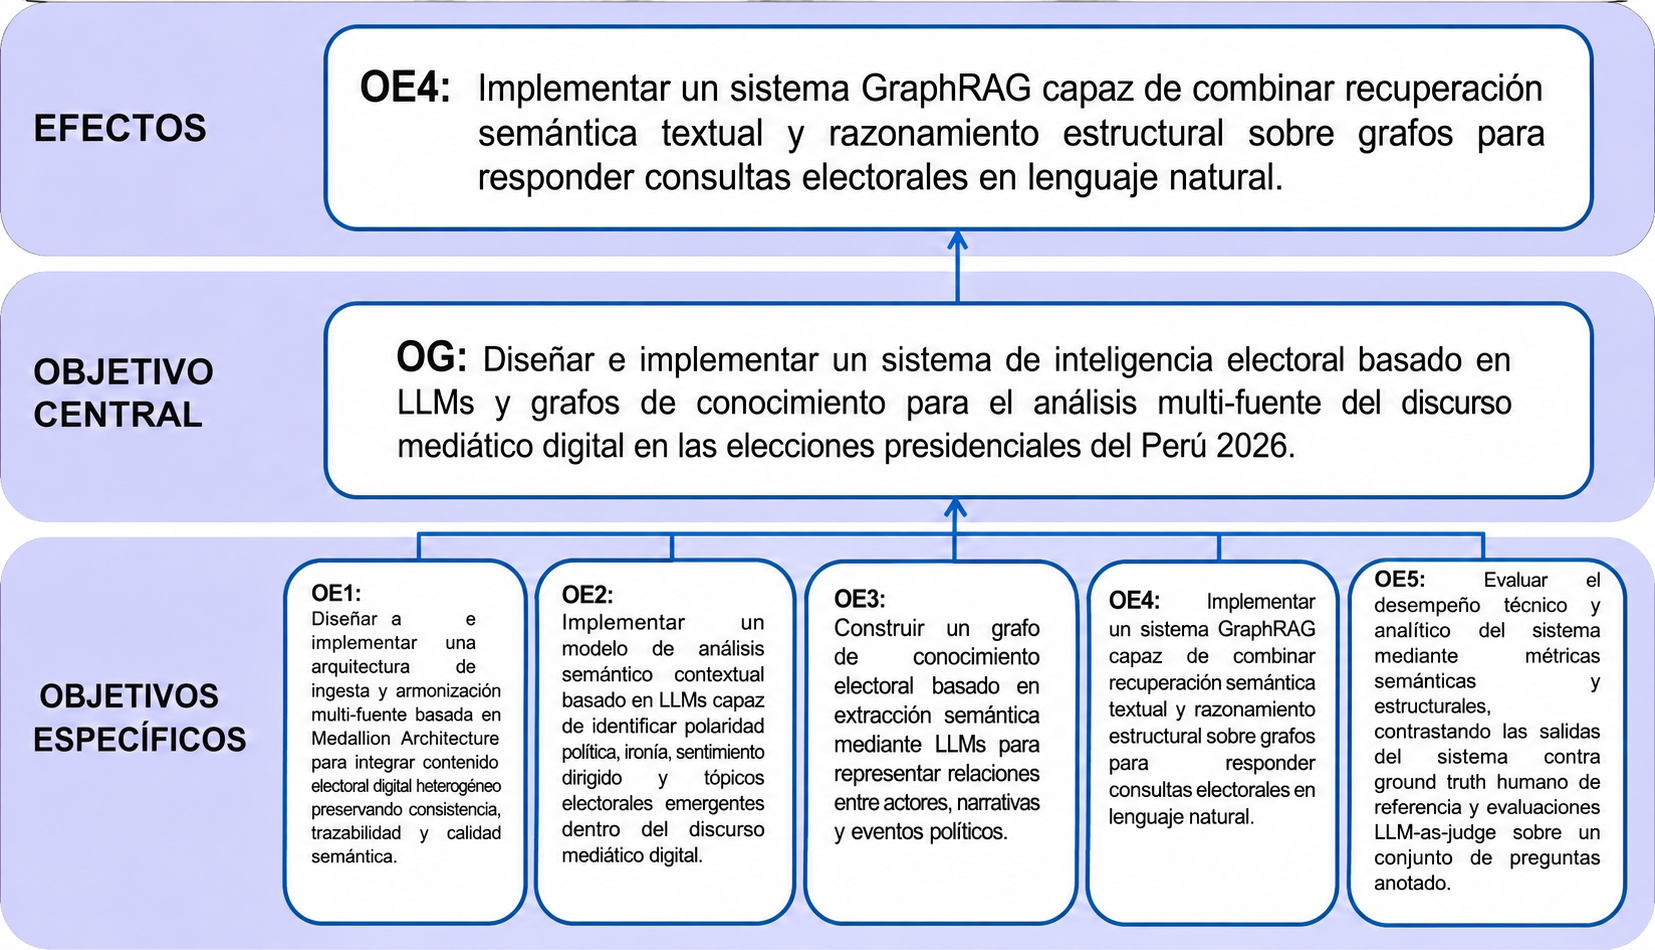
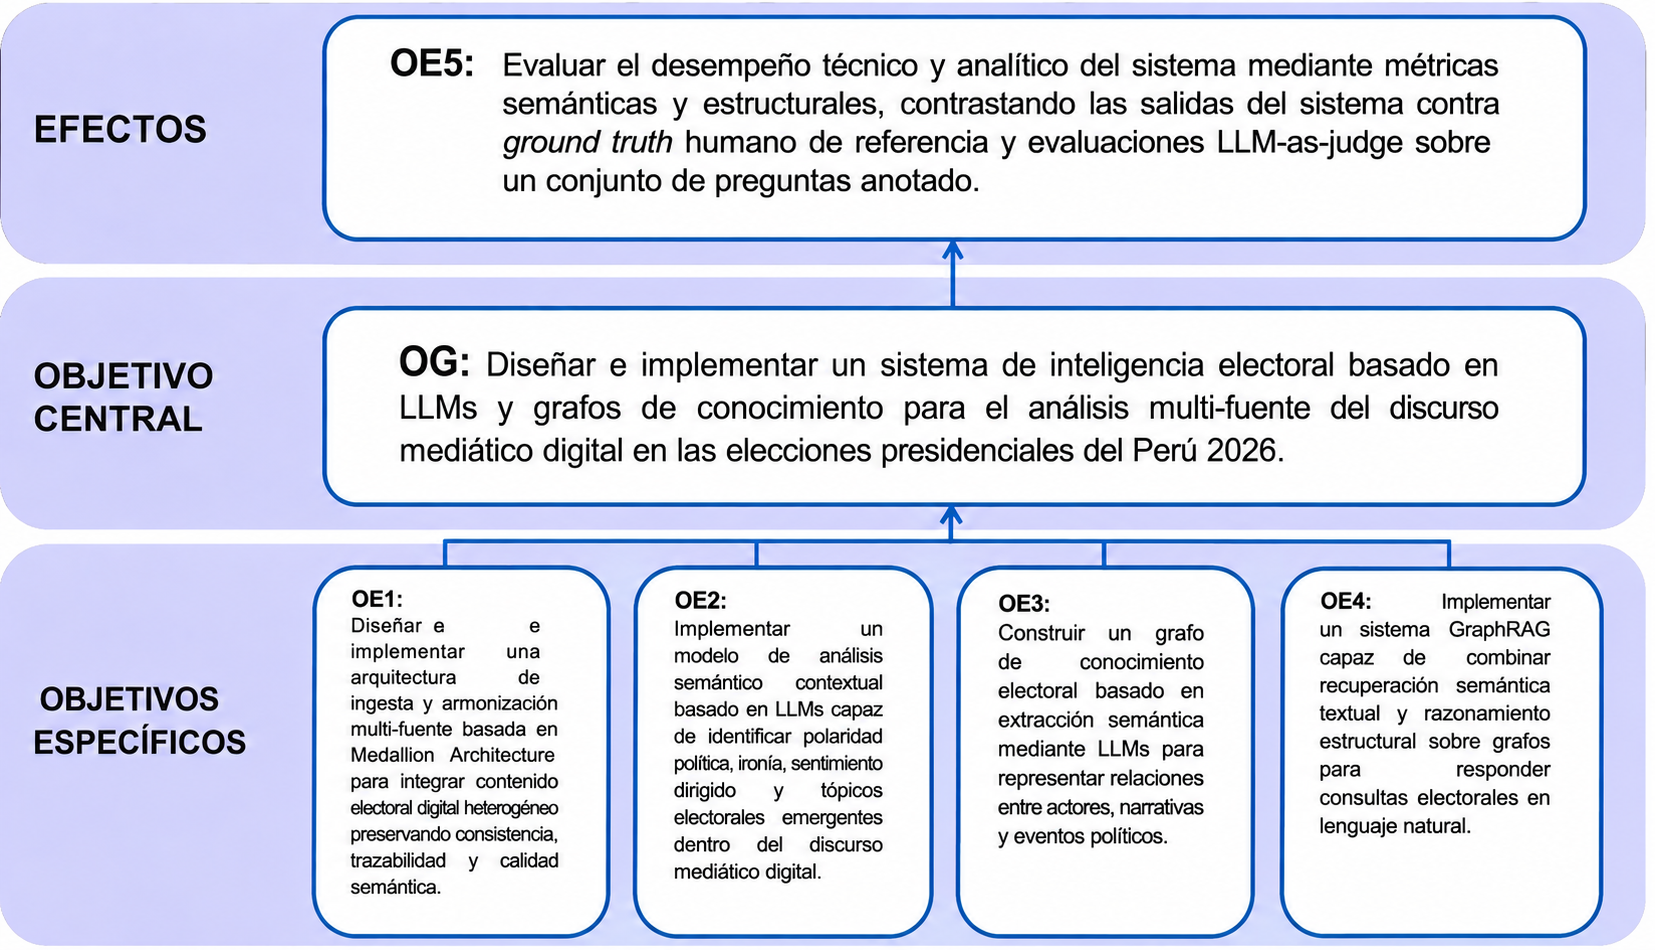
Se actualizó el archivo anexos/anexo.tex para corregir la sintaxis de los comandos relacionados con el entorno de paisaje (landscape) y para ajustar la inclusión de las imágenes. Se reemplazaron los comandos \beginlandscape y \endlandscape por \begin{landscape} y \end{landscape}, respectivamente, pa

diff --git a/anexos/anexo.tex b/anexos/anexo.tex
@@ -5,7 +5,7 @@
 \renewcommand{\thesection}{\Alph{section}}% Adjust section printing (from here onward)
 \renewcommand{\thesubsection}{\Alph{section}.\arabic{subsection}}% Subsections of appendix: H.1, H.2 (not 0.8.1)
 \renewcommand{\thesubsubsection}{\Alph{section}.\arabic{subsection}.\arabic{subsubsection}}
-
+\begin{landscape}
 % ──────────────────────────────────────────────────────────────
 \section{Árbol de Problemas}
 % ──────────────────────────────────────────────────────────────
@@ -20,9 +20,9 @@
 		\label{fig:arbol_problemas}
 	\end{center}
 \end{figure}
-
+\end{landscape}
 \clearpage
-
+\begin{landscape}
 % ──────────────────────────────────────────────────────────────
 \section{Árbol de Objetivos}
 % ──────────────────────────────────────────────────────────────
@@ -37,9 +37,9 @@
 		\label{fig:arbol_objetivos}
 	\end{center}
 \end{figure}
-
+\end{landscape}
 \clearpage
-
+\begin{landscape}
 % ──────────────────────────────────────────────────────────────
 \section{Matriz de Consistencia}
 % ──────────────────────────────────────────────────────────────
@@ -54,7 +54,7 @@
 		\label{fig:matriz_consistencia}
 	\end{center}
 \end{figure}
-
+\end{landscape}
 \clearpage
 
 % ──────────────────────────────────────────────────────────────
